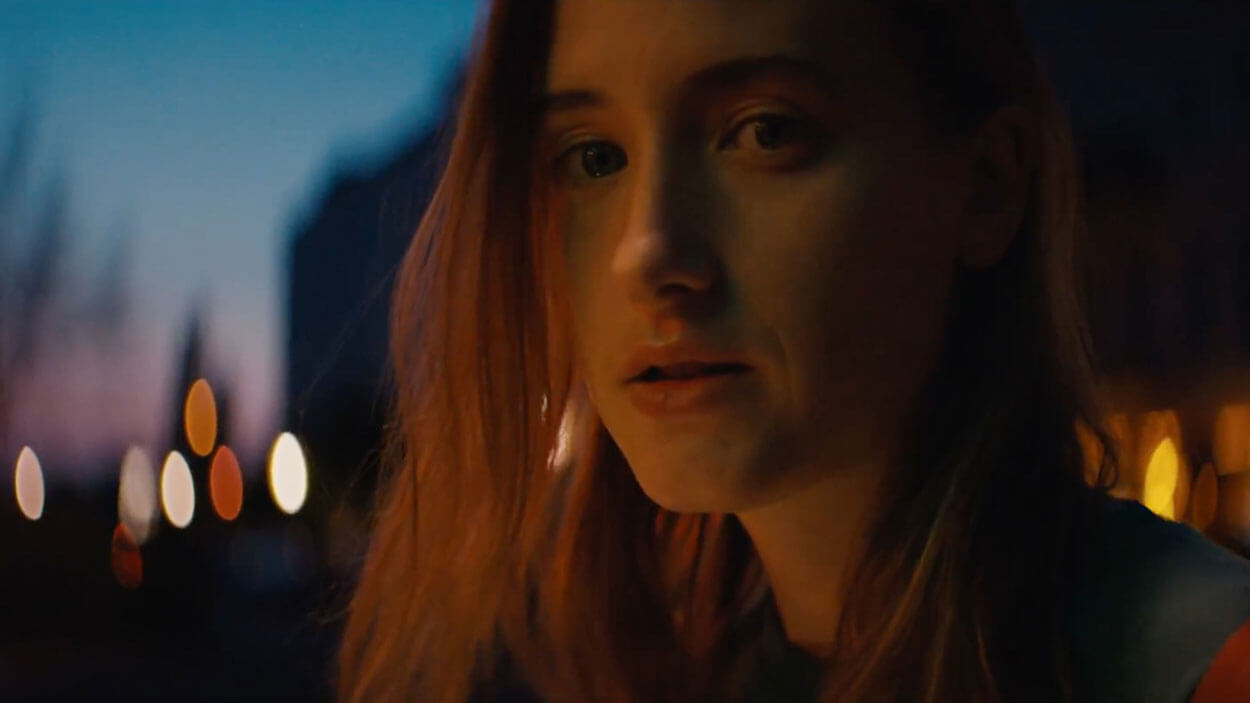
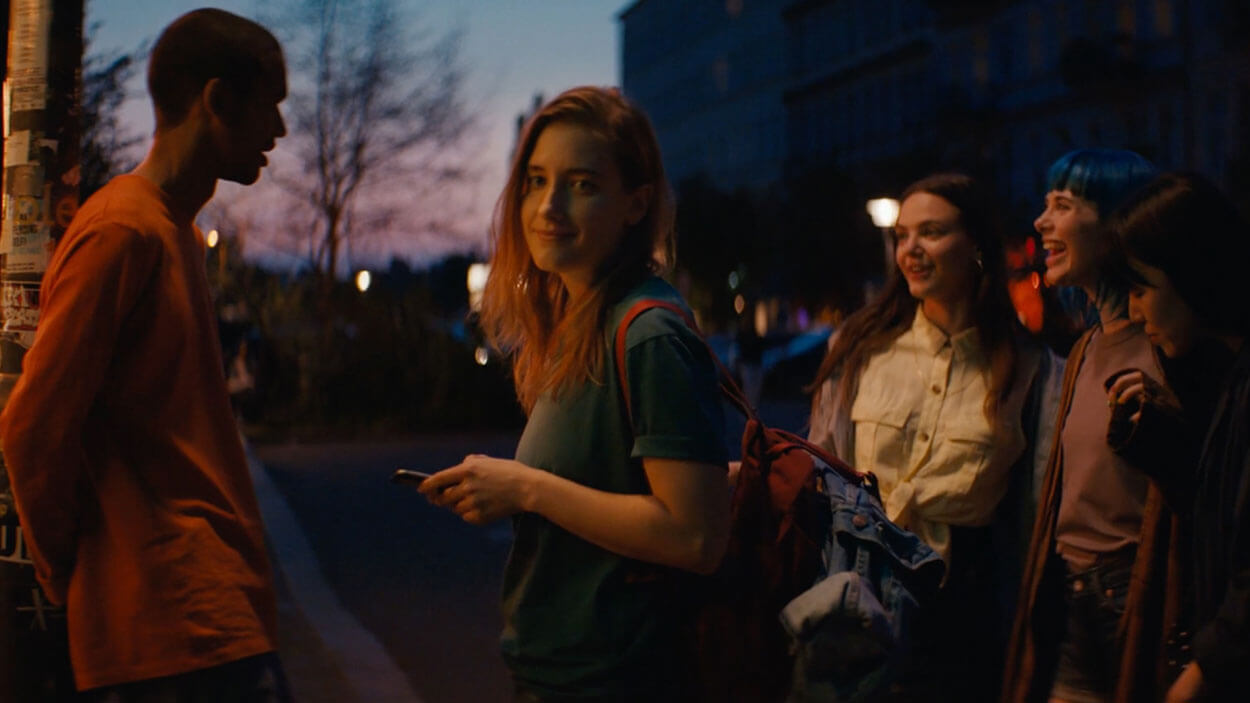
Berlin page video experiment (Fixes #5637)

diff --git a/media/css/firefox/new/berlin-b.scss b/media/css/firefox/new/berlin-b.scss
@@ -1,0 +1,69 @@
+// This Source Code Form is subject to the terms of the Mozilla Public
+// License, v. 2.0. If a copy of the MPL was not distributed with this
+// file, You can obtain one at http://mozilla.org/MPL/2.0/.
+
+@import '../../pebbles/includes/lib';
+
+/* -------------------------------------------------------------------------- */
+// Top hero section with inlinne video.
+
+.intro {
+    background: #23003d url('/media/img/firefox/new/berlin/purple-wave.png') bottom left no-repeat;
+    padding: 0 0 20px;
+
+    h1,
+    h2 {
+        margin: 0;
+    }
+
+    .media {
+        margin-top: 20px;
+    }
+
+    @media #{$mq-desktop} {
+        @include clearfix;
+        background: #23033d url('/media/img/firefox/new/berlin/hearts-large.png') top center no-repeat;
+        background: url('/media/img/firefox/new/berlin/purple-wave.png') bottom left no-repeat,
+                    url('/media/img/firefox/new/berlin/hearts-large.png') top center no-repeat,
+                    #23033d;
+
+        .media {
+            float: right;
+            width: calc(50% - 60px);
+            margin-top: 150px;
+
+            @supports (display: flex) {
+                align-items: center;
+                display: flex;
+                min-height: 600px;
+                margin-top: 0;
+            }
+        }
+
+        .media-content {
+            position: relative;
+            width: 100%;
+        }
+
+    }
+}
+
+.video.content-section p {
+    max-width: 45em;
+    margin-bottom: 40px;
+}
+
+// give details section a different background color since the video has been removed.
+.details {
+    background: #f1f1f1;
+}
+
+// hide the horizontal gradient rule.
+.secondary-download.content-section .download-contain {
+    padding: 20px;
+
+    &:before {
+        content: none;
+    }
+}
+

diff --git a/bedrock/firefox/templates/firefox/new/berlin/scene1-b.html b/bedrock/firefox/templates/firefox/new/berlin/scene1-b.html
@@ -1,0 +1,46 @@
+{# This Source Code Form is subject to the terms of the Mozilla Public
+ # License, v. 2.0. If a copy of the MPL was not distributed with this
+ # file, You can obtain one at http://mozilla.org/MPL/2.0/. -#}
+
+{% add_lang_files "firefox/new/quantum" %}
+
+{% extends "firefox/new/berlin/base.html" %}
+
+{% block page_css %}
+  {% stylesheet 'firefox_new_berlin_b' %}
+{% endblock %}
+
+{% block primary_download_button %}
+  {{ download_firefox(alt_copy='Jetzt herunterladen', locale_in_transition=true, dom_id="download-firefox", download_location='primary cta', button_color='button-green') }}
+{% endblock %}
+
+{% block media %}
+<div class="media">
+  <div class="media-content">
+    <div class="video-placeholder">
+      <a class="video-play" href="https://youtu.be/ZazlpgSOGfM" data-id="ZazlpgSOGfM">
+        <img src="{{ static('img/firefox/new/berlin/video-placeholder.jpg') }}" width="1250" height="703" alt="Sehen Sie sich das Video an" />
+      </a>
+    </div>
+  </div>
+</div>
+{% endblock %}
+
+{% block video %}
+<section class="video content-section">
+  <div class="content">
+    <h2>Firefox. Aus Gründen.</h2>
+
+    <p>
+      Wenn wir so viel darüber nachdenken, was gut für uns und die Welt
+      um uns herum ist, wieso machen wir uns dann nie Gedanken darüber,
+      wie wir online gehen? Entdecke jetzt den Browser mit Herz.
+      Gemeinsam mit uns.
+    </p>
+  </div>
+</section>
+{% endblock %}
+
+{% block js %}
+  {% javascript 'firefox_new_scene1_berlin' %}
+{% endblock %}

diff --git a/bedrock/firefox/templates/firefox/new/berlin/scene1.html b/bedrock/firefox/templates/firefox/new/berlin/scene1.html
@@ -4,7 +4,13 @@
 
 {% add_lang_files "firefox/new/quantum" %}
 
-{% extends "firefox/new/berlin/base.html" %}v
+{% extends "firefox/new/berlin/base.html" %}
+
+{% block experiments %}
+  {% if switch('experiment-berlin-video', ['de']) %}
+    {% javascript 'firefox_new_berlin_experiment' %}
+  {% endif %}
+{% endblock %}
 
 {% block primary_download_button %}
   {{ download_firefox(alt_copy='Jetzt herunterladen', locale_in_transition=true, dom_id="download-firefox", download_location='primary cta', button_color='button-green') }}

diff --git a/media/js/firefox/new/berlin-experiment.js b/media/js/firefox/new/berlin-experiment.js
@@ -1,0 +1,17 @@
+/* This Source Code Form is subject to the terms of the Mozilla Public
+ * License, v. 2.0. If a copy of the MPL was not distributed with this
+ * file, You can obtain one at http://mozilla.org/MPL/2.0/. */
+
+(function() {
+    'use strict';
+
+    var cop = new Mozilla.TrafficCop({
+        id: 'experiment_firefox_new_berlin_video',
+        variations: {
+            'v=a': 50,
+            'v=b': 50
+        }
+    });
+
+    cop.init();
+})(window.Mozilla);

diff --git a/media/css/firefox/new/berlin.scss b/media/css/firefox/new/berlin.scss
@@ -43,6 +43,7 @@ body {
 // Top hero section
 
 .intro {
+    background: #23003d url('/media/img/firefox/new/berlin/hero-image-mobile.jpg') top center no-repeat;
     background: url('/media/img/firefox/new/berlin/hearts-left.png') bottom 20px left -40px no-repeat,
                 url('/media/img/firefox/new/berlin/hearts-right.png') top 20px right -30px no-repeat,
                 url('/media/img/firefox/new/berlin/hero-image-mobile.jpg') top center no-repeat

diff --git a/bedrock/firefox/templates/firefox/new/berlin/scene2-herz.html b/bedrock/firefox/templates/firefox/new/berlin/scene2-herz.html
@@ -8,7 +8,7 @@
 
 {% block body_class %}berlin-scene2{% endblock %}
 
-{% block page_og_url %}{{ settings.CANONICAL_URL }}/{{ LANG }}/firefox/new/?xv=berlin{% endblock %}
+{% block page_og_url %}{{ settings.CANONICAL_URL }}/{{ LANG }}/firefox/new/?xv=herz{% endblock %}
 
 {% block string_data %}
   data-pixels="{% for pixel in settings.TRACKING_PIXELS %}{{ pixel }}{% if not loop.last %}::{% endif %}{% endfor %}"

diff --git a/bedrock/firefox/templates/firefox/new/berlin/scene2-b.html b/bedrock/firefox/templates/firefox/new/berlin/scene2-b.html
@@ -1,0 +1,11 @@
+{# This Source Code Form is subject to the terms of the Mozilla Public
+ # License, v. 2.0. If a copy of the MPL was not distributed with this
+ # file, You can obtain one at http://mozilla.org/MPL/2.0/. -#}
+
+{% add_lang_files "firefox/new/quantum" %}
+
+{% extends "firefox/new/berlin/scene2.html" %}
+
+{% block page_css %}
+  {% stylesheet 'firefox_new_berlin_b' %}
+{% endblock %}

diff --git a/bedrock/firefox/templates/firefox/new/berlin/base.html b/bedrock/firefox/templates/firefox/new/berlin/base.html
@@ -36,6 +36,7 @@
           {% block primary_download_button %}{% endblock %}
         </div>
       </div>
+      {% block media %}{% endblock %}
     </div>
   </section>
 

diff --git a/bedrock/firefox/views.py b/bedrock/firefox/views.py
@@ -516,6 +516,11 @@ class TrackingProtectionTourView(l10n_utils.LangFilesMixin, TemplateView):
 def download_thanks(request):
     experience = request.GET.get('xv', None)
     locale = l10n_utils.get_locale(request)
+    variant = request.GET.get('v', None)
+
+    # ensure variant matches pre-defined value
+    if variant not in ['a', 'b']:  # place expected ?v= values in this list
+        variant = None
 
     # `wait-face`, `reggiewatts` variations are currently localized for both en-US and de locales.
     if lang_file_is_active('firefox/new/wait-face', locale) and experience == 'waitface':
@@ -523,7 +528,10 @@ def download_thanks(request):
     elif lang_file_is_active('firefox/new/reggiewatts', locale) and experience == 'reggiewatts':
         template = 'firefox/new/reggie-watts/scene2.html'
     elif locale == 'de' and experience == 'berlin':
-        template = 'firefox/new/berlin/scene2.html'
+        if variant == 'b':
+            template = 'firefox/new/berlin/scene2-b.html'
+        else:
+            template = 'firefox/new/berlin/scene2.html'
     elif locale == 'de' and experience == 'herz':
         template = 'firefox/new/berlin/scene2-herz.html'
     elif locale == 'en-US':
@@ -552,7 +560,7 @@ def new(request):
     locale = l10n_utils.get_locale(request)
 
     # ensure variant matches pre-defined value
-    if variant not in []:  # place expected ?v= values in this list
+    if variant not in ['a', 'b']:  # place expected ?v= values in this list
         variant = None
 
     if scene == '2':
@@ -569,7 +577,10 @@ def new(request):
         elif lang_file_is_active('firefox/new/reggiewatts', locale) and experience == 'reggiewatts':
             template = 'firefox/new/reggie-watts/scene1.html'
         elif locale == 'de' and experience == 'berlin':
-            template = 'firefox/new/berlin/scene1.html'
+            if variant == 'b':
+                template = 'firefox/new/berlin/scene1-b.html'
+            else:
+                template = 'firefox/new/berlin/scene1.html'
         elif locale == 'de' and experience == 'herz':
             template = 'firefox/new/berlin/scene1-herz.html'
         elif locale == 'en-US':

diff --git a/bedrock/firefox/tests/test_views.py b/bedrock/firefox/tests/test_views.py
@@ -692,6 +692,32 @@ class TestFirefoxNew(TestCase):
         views.download_thanks(req)
         render_mock.assert_called_once_with(req, 'firefox/new/scene2.html')
 
+    # berlin video test issue 5637
+
+    def test_berlin_video_scene_1(self, render_mock):
+        req = RequestFactory().get('/firefox/new/?xv=berlin&v=b')
+        req.locale = 'de'
+        views.new(req)
+        render_mock.assert_called_once_with(req, 'firefox/new/berlin/scene1-b.html', ANY)
+
+    def test_berlin_video_scene_2(self, render_mock):
+        req = RequestFactory().get('/firefox/download/thanks/?xv=berlin&v=b')
+        req.locale = 'de'
+        views.download_thanks(req)
+        render_mock.assert_called_once_with(req, 'firefox/new/berlin/scene2-b.html')
+
+    def test_berlin_video_control_scene_1(self, render_mock):
+        req = RequestFactory().get('/firefox/new/?xv=berlin&v=a')
+        req.locale = 'de'
+        views.new(req)
+        render_mock.assert_called_once_with(req, 'firefox/new/berlin/scene1.html', ANY)
+
+    def test_berlin_video_control_scene_2(self, render_mock):
+        req = RequestFactory().get('/firefox/download/thanks/?xv=berlin&v=a')
+        req.locale = 'de'
+        views.download_thanks(req)
+        render_mock.assert_called_once_with(req, 'firefox/new/berlin/scene2.html')
+
 
 class TestFirefoxNewNoIndex(TestCase):
     def test_scene_1_noindex(self):

diff --git a/bedrock/settings/static_media.py b/bedrock/settings/static_media.py
@@ -427,6 +427,13 @@ PIPELINE_CSS = {
         ),
         'output_filename': 'css/firefox_new_berlin-bundle.css',
     },
+    'firefox_new_berlin_b': {
+        'source_filenames': (
+            'css/firefox/new/berlin.scss',
+            'css/firefox/new/berlin-b.scss',
+        ),
+        'output_filename': 'css/firefox_new_berlin_b-bundle.css',
+    },
     'firefox_new_berlin_herz': {
         'source_filenames': (
             'css/firefox/new/berlin-herz.scss',
@@ -1100,6 +1107,13 @@ PIPELINE_JS = {
             'js/firefox/new/berlin-scene1.js',
         ),
         'output_filename': 'js/firefox_new_scene1_berlin-bundle.js',
+    },
+    'firefox_new_berlin_experiment': {
+        'source_filenames': (
+            'js/base/mozilla-traffic-cop.js',
+            'js/firefox/new/berlin-experiment.js',
+        ),
+        'output_filename': 'js/firefox_new_berlin_experiment-bundle.js',
     },
     'firefox_new_scene1_berlin_herz': {
         'source_filenames': (
